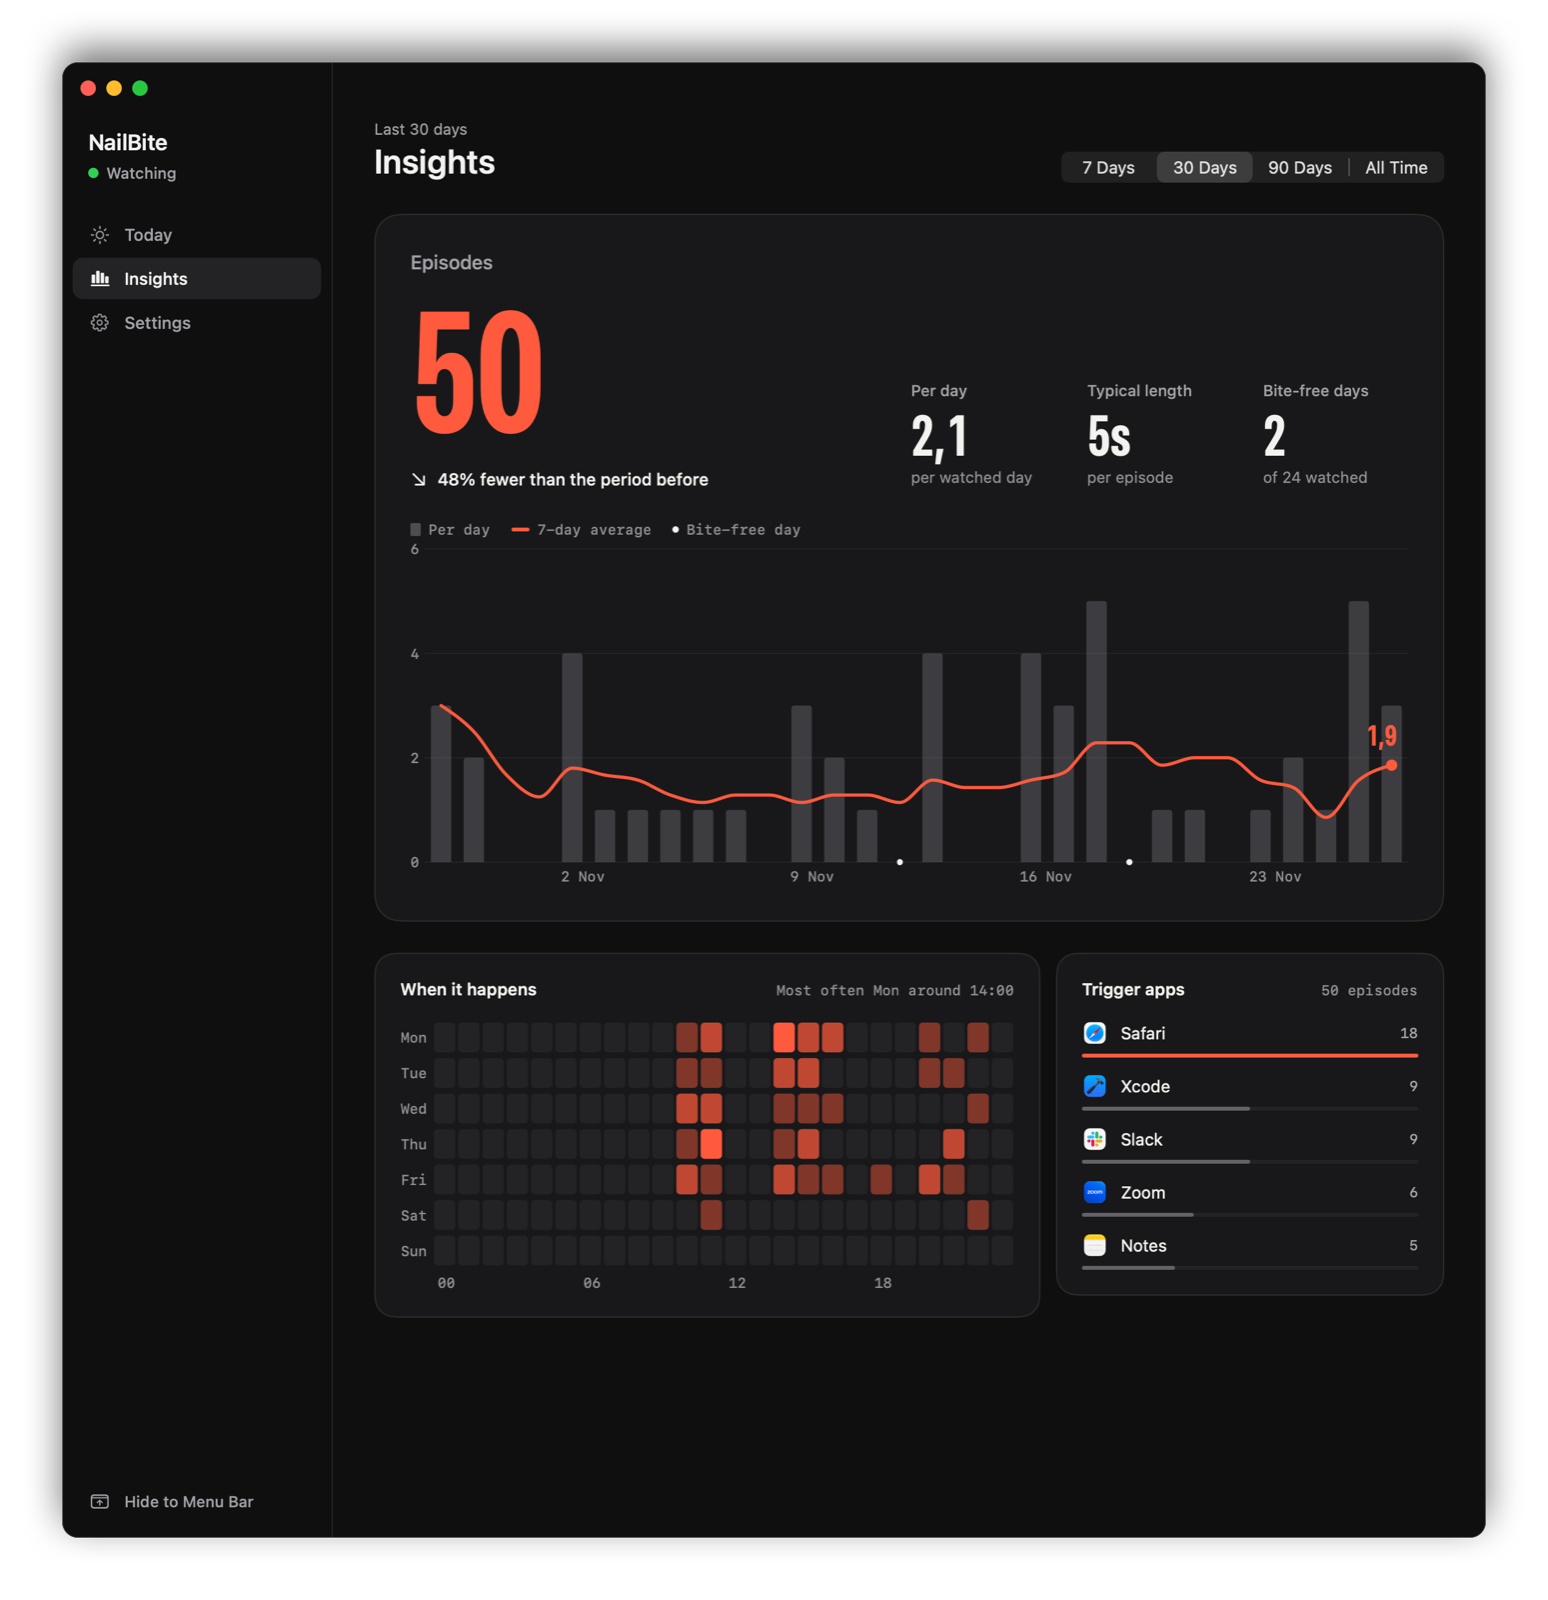
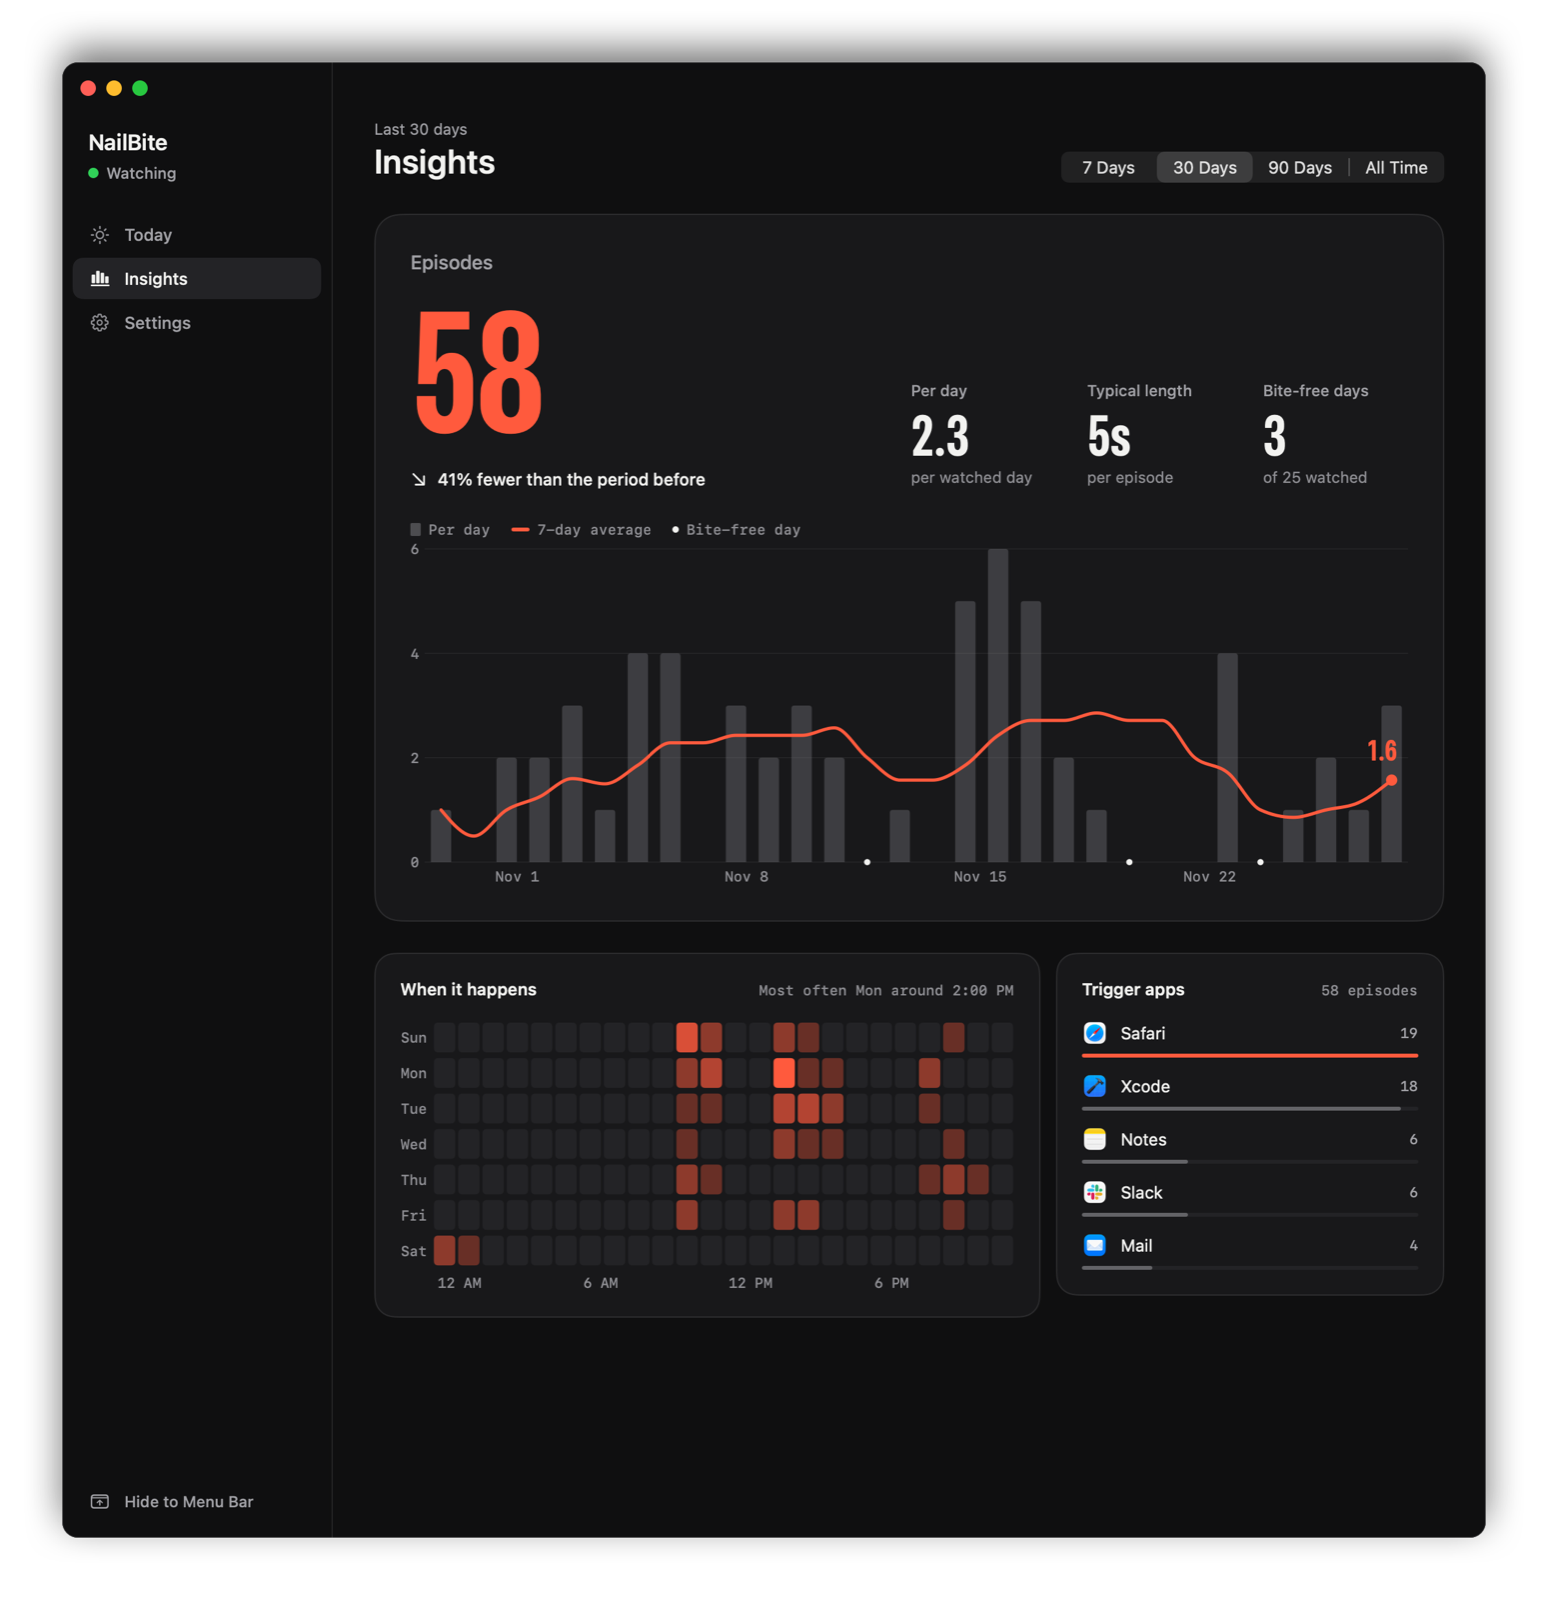
Plainer alert settings copy and a labeled live signal
Describe the edge glow, the sound and the alert preview in user terms, show
the live signal next to its threshold (34 / 75), and use US English number
formatting in the website's Insights screenshots.

diff --git a/app/NailBiteMenu/SettingsView.swift b/app/NailBiteMenu/SettingsView.swift
@@ -22,7 +22,7 @@ struct SettingsView: View {
                     HStack(spacing: DS.Space.m) {
                         VStack(alignment: .leading, spacing: 2) {
                             Text("Try the alert")
-                            Text("Runs exactly what a real detection would, sound included")
+                            Text("Shows the alert the way a real detection does, with sound")
                                 .font(.dsCaption)
                                 .foregroundStyle(Color.dsTextSecondary)
                         }
@@ -36,7 +36,7 @@ struct SettingsView: View {
 
                     Toggle(isOn: $preferences.alertEdges) {
                         Text("Edge glow")
-                        Text("Vermilion light from every edge of every screen")
+                        Text("The edges of every screen light up red")
                     }
                     Toggle(isOn: $preferences.alertLabel) {
                         Text("“Hands down” label")
@@ -44,7 +44,7 @@ struct SettingsView: View {
                     }
                     Toggle(isOn: Binding(get: { !preferences.muteAlerts }, set: { preferences.muteAlerts = !$0 })) {
                         Text("Sound")
-                        Text("A short chime that starts on the same frame as the glow")
+                        Text("A short ping with the glow")
                     }
                     Toggle(isOn: $preferences.interruptIfContinuing) {
                         Text("Reset if biting continues")

diff --git a/app/NailBiteMenu/MenuContentView.swift b/app/NailBiteMenu/MenuContentView.swift
@@ -119,7 +119,7 @@ private struct LiveMeter: View {
             HStack {
                 Text("Live signal")
                 Spacer()
-                Text(isRunning ? "\(Int((value * 100).rounded()))" : "–")
+                Text(isRunning ? "\(Int((value * 100).rounded())) / \(Int((threshold * 100).rounded()))" : "–")
             }
             .font(.dsMeta)
             .foregroundStyle(Color.dsTextTertiary)
